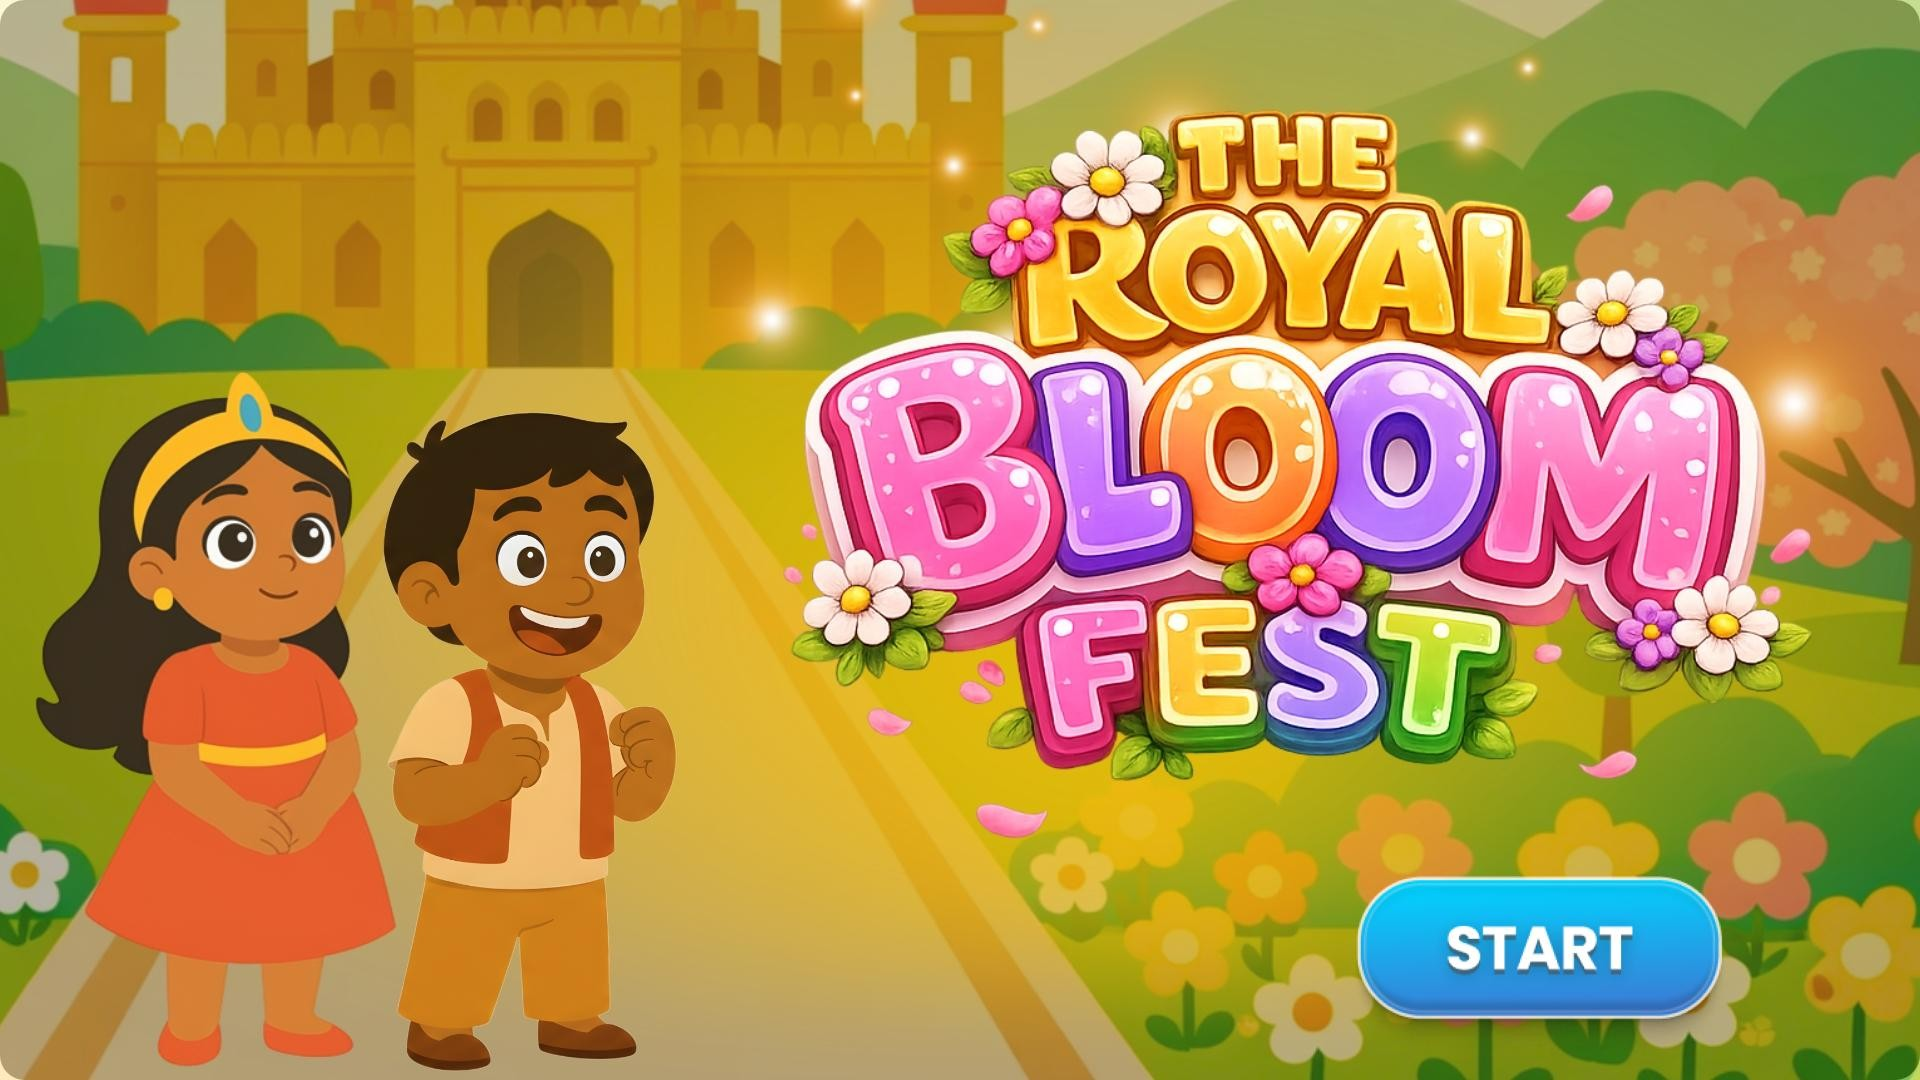
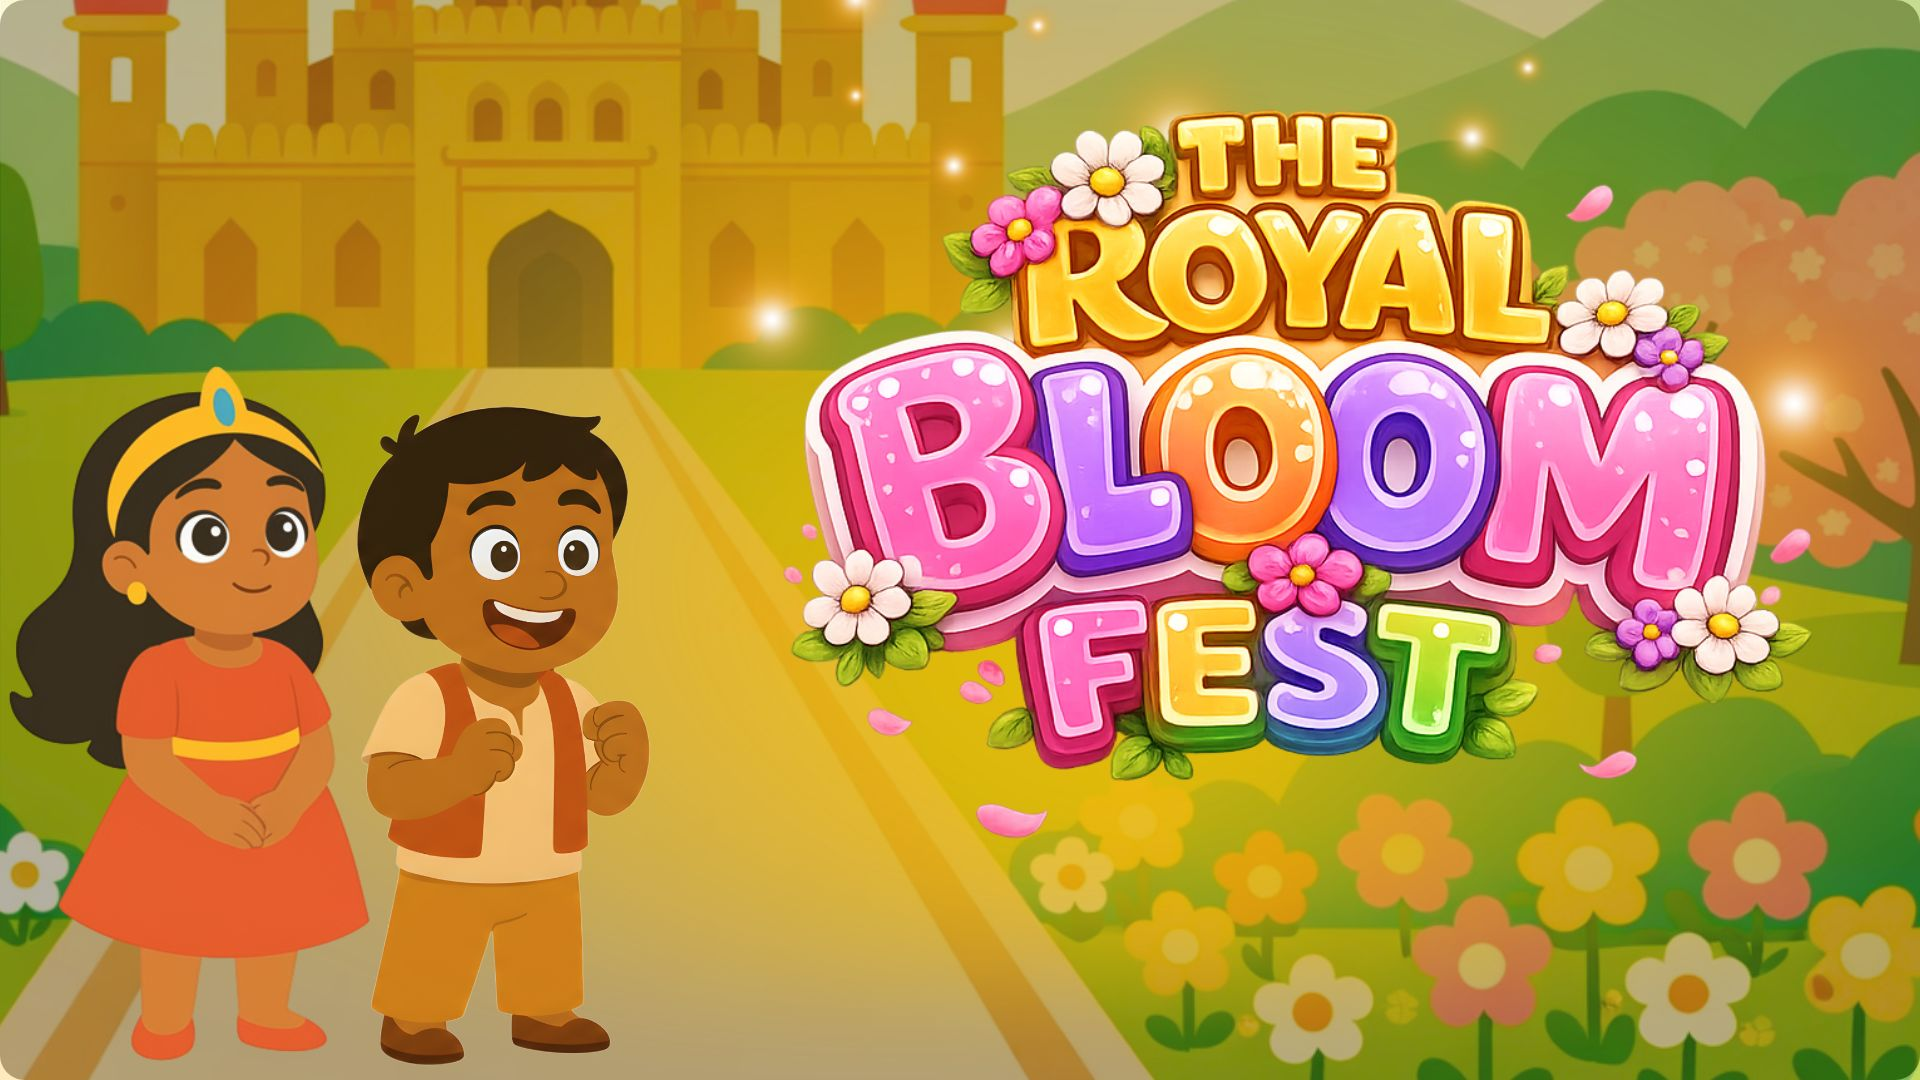
changes in designs

Changed region(s): [[0.0, 0.3361, 0.375, 1.0], [0.6875, 0.7944, 0.9062, 0.9778]]

diff --git a/ebook.html b/ebook.html
@@ -19,6 +19,7 @@
     }
 
     /* ── Preloader ── */
+    /* preloader bg fixed */
     #preloader {
       position: fixed;
       inset: 0;
@@ -186,8 +187,9 @@
     body {
       background: var(--theme-bg);
     }
+    /* preloader bg fixed */
     #preloader {
-      background: transparent !important;
+      background: var(--theme-bg) !important;
     }
 
     /* ── Centered book scene ── */
@@ -563,7 +565,7 @@
 
     /* Dummy pages — completely invisible, just fix turn.js pairing */
     .dummy-page {
-      background: transparent !important;
+      background: var(--theme-bg) !important;
       box-shadow: none !important;
       visibility: hidden;
     }
@@ -1451,22 +1453,59 @@
 
     /* ── BloomFest: preloader cover image ── */
     .loader-stage {
-      width: min(92vw, 1100px) !important;
-      height: min(53vw, 634px) !important;
-      margin-top: 1vh !important;
+      width: min(92vw, 900px) !important;
+      aspect-ratio: 820 / 472 !important;
+      height: auto !important;
+      margin-top: 2vh !important;
     }
-    .loader-book { background: transparent; }
+    .loader-book { background: transparent; pointer-events: none; }
     .loader-book svg { display: none !important; }
     .loader-cover-img {
       width: 100%;
       height: 100%;
       object-fit: fill;
       display: block;
-      border-radius: 6px;
-      box-shadow: 0 16px 50px rgba(0,0,0,.4), 0 4px 16px rgba(0,0,0,.22);
+      border-radius: 0 8px 8px 0;
       pointer-events: none;
     }
     .loader-overlay { display: none !important; }
+
+    /* Book frame: spine left, page-stack right & bottom, cover shadow */
+    .loader-book {
+      border-radius: 4px 8px 8px 4px !important;
+      box-shadow:
+        /* outer drop shadow */
+        0 22px 60px rgba(0,0,0,.45),
+        0 6px 18px rgba(0,0,0,.28),
+        /* spine gutter left */
+        inset 28px 0 20px -10px rgba(0,0,0,.45);
+    }
+    /* Spine strip */
+    .loader-stage::before {
+      content: '';
+      position: absolute;
+      left: 0; top: 0; bottom: 0;
+      width: 28px;
+      background: linear-gradient(to right, #2a0808 0%, #5C1B23 55%, #7B2630 100%);
+      border-radius: 4px 0 0 4px;
+      box-shadow: inset -4px 0 8px rgba(0,0,0,.3);
+      z-index: 5;
+      pointer-events: none;
+    }
+    /* Page stack (right + bottom edge) */
+    .loader-stage::after {
+      content: '';
+      position: absolute;
+      right: -10px; top: 4px; bottom: 4px;
+      width: 12px;
+      background: repeating-linear-gradient(to bottom,
+        #f4edd8 0px, #f4edd8 3px,
+        #e0d6b8 3px, #e0d6b8 6px);
+      border-radius: 0 3px 3px 0;
+      box-shadow: 4px 0 10px rgba(0,0,0,.2);
+      z-index: 0;
+      pointer-events: none;
+    }
 
     /* Progress bar — positioned directly in .loader-stage */
     .loader-stage > .loader-bar-wrap {
@@ -1477,44 +1516,55 @@
       width: min(55%, 240px);
     }
 
-    /* ── Start button — transparent glow ring over the drawn START in cover art ── */
+    /* ── Start button — visible game-style button, bottom-right of thumbnail ── */
     #startBtn {
       display: none;
       position: absolute !important;
-      bottom: 4% !important;
-      right: 15% !important;
-      width: 22% !important;
-      height: 14% !important;
+      bottom: 6% !important;
+      right: 6% !important;
       margin: 0 !important;
-      padding: 0 !important;
-      background: transparent !important;
-      border: 3px solid rgba(255,255,255,.0) !important;
+      padding: 0 14px !important;
+      width: 26% !important;
+      height: 17% !important;
+      font-family: 'Fredoka One','Nunito',sans-serif !important;
+      font-size: clamp(18px, 2.8vw, 26px) !important;
+      font-weight: 700 !important;
+      color: #fff !important;
+      letter-spacing: 2px !important;
+      text-transform: uppercase !important;
+      text-shadow: 0 2px 4px rgba(0,30,80,.45) !important;
+      background: linear-gradient(180deg, #7ee8ff 0%, #1baee0 40%, #0d7fc4 100%) !important;
+      border: 3px solid rgba(255,255,255,.75) !important;
+      border-bottom: 3px solid rgba(255,255,255,.35) !important;
       border-radius: 50px !important;
       cursor: pointer !important;
-      font-size: 0 !important;
-      box-shadow: none !important;
-      z-index: 10 !important;
+      box-shadow: 0 6px 0 #085a8a, 0 8px 28px rgba(0,0,0,.35), 0 0 22px rgba(80,210,255,.4) !important;
+      z-index: 20 !important;
+      pointer-events: all !important;
     }
     #startBtn.btn-visible {
-      display: inline-block !important;
-      border: 3px solid rgba(120,230,255,.95) !important;
-      box-shadow: 0 0 18px rgba(80,215,255,.7), 0 0 40px rgba(80,215,255,.35), inset 0 0 10px rgba(255,255,255,.18) !important;
-      animation: startBtnPop .6s cubic-bezier(.18,1.25,.32,1) both,
+      display: flex !important;
+      align-items: center !important;
+      justify-content: center !important;
+      animation: startBtnPop .6s cubic-bezier(.18,1.3,.32,1) both,
                  startBtnGlow 2s ease-in-out infinite .7s !important;
     }
     #startBtn.btn-visible:hover {
-      border-color: rgba(180,245,255,1) !important;
-      box-shadow: 0 0 32px rgba(80,215,255,.9), 0 0 65px rgba(80,215,255,.45), inset 0 0 16px rgba(255,255,255,.28) !important;
-      transform: scale(1.05) !important;
+      transform: translateY(-3px) scale(1.04) !important;
+      box-shadow: 0 9px 0 #085a8a, 0 12px 32px rgba(0,0,0,.35), 0 0 44px rgba(80,210,255,.7) !important;
+    }
+    #startBtn.btn-visible:active {
+      transform: translateY(3px) !important;
+      box-shadow: 0 3px 0 #085a8a, 0 4px 16px rgba(0,0,0,.3) !important;
     }
     @keyframes startBtnPop {
-      0%   { opacity:0; transform:scale(.4); border-color:rgba(120,230,255,0); }
-      65%  { opacity:1; transform:scale(1.08); }
-      100% { opacity:1; transform:scale(1); }
+      0%   { opacity:0; transform:scale(.25) rotate(-6deg); }
+      60%  { opacity:1; transform:scale(1.1) rotate(2deg); }
+      100% { opacity:1; transform:scale(1) rotate(0deg); }
     }
     @keyframes startBtnGlow {
-      0%,100% { box-shadow:0 0 12px rgba(80,215,255,.5), 0 0 28px rgba(80,215,255,.2), inset 0 0 8px rgba(255,255,255,.12); border-color:rgba(120,230,255,.8); }
-      50%     { box-shadow:0 0 30px rgba(80,215,255,.9), 0 0 60px rgba(80,215,255,.4), inset 0 0 16px rgba(255,255,255,.25); border-color:rgba(200,248,255,1); }
+      0%,100% { box-shadow:0 6px 0 #085a8a,0 8px 28px rgba(0,0,0,.35),0 0 22px rgba(80,210,255,.4); }
+      50%     { box-shadow:0 6px 0 #085a8a,0 8px 28px rgba(0,0,0,.35),0 0 55px rgba(80,210,255,.85),0 0 85px rgba(80,210,255,.25); }
     }
 
   </style>
@@ -1523,9 +1573,10 @@
 <body>
   <!-- Preloader -->
   <div id="preloader">
+    <svg id="preloaderDecor" style="position:absolute;top:0;left:0;width:100%;height:100%;pointer-events:none;z-index:0" viewBox="0 0 1000 600" preserveAspectRatio="none"></svg>
     <div class="loader-stage">
       <div class="loader-book">
-        <img class="loader-cover-img" src="media/1.jpg" alt="The Royal Bloom Fest">
+        <img class="loader-cover-img" src="assets/thumbnail.jpg" alt="The Royal Bloom Fest">
       </div>
       <div class="loader-bar-wrap">
         <div class="loader-bar" id="loaderBar"></div>
@@ -1558,7 +1609,7 @@
       <div class="page-stack-purple"></div>
       <div class="spine-tab"></div>
     </div>
-    <div class="pg-cnt" id="pgCnt">The Royale Bloom Fest</div>
+    <div class="pg-cnt" id="pgCnt"></div>
   </div>
 
   <script>
@@ -5195,6 +5246,8 @@
       r.setProperty('--theme-accent', t.accent);
       var decorEl = document.getElementById('themeDecor');
       if (decorEl) decorEl.innerHTML = t.decor();
+      var plDecor = document.getElementById('preloaderDecor');
+      if (plDecor) plDecor.innerHTML = t.decor();
     }
     applyTheme(ACTIVE_THEME);
 
@@ -5668,7 +5721,7 @@
       bgMusic: "audios/ThemeMusic.mp3",
       title: "The Royal Bloom Fest",
       pages: [
-        { image: "media/1.jpg",                                              audio: "audios/TheRoyalBloomFest.mp3" },
+        { image: "assets/thumbnail.jpg",                                    audio: "audios/TheRoyalBloomFest.mp3" },
         { image: "media/2.jpg",                                              audio: "audios/MeetTaraandKabirTheyareExcitedForTheBloomFest.mp3" },
         { image: "media/3.jpg",                                              audio: "audios/TheRoayalGuestsAreComingButThePAthAreBlocked.mp3" },
         { image: "media/4OhNoThwBoxesAreEverywhere.jpg",                     audio: "audios/OHNOTheBoxesAreEverywhere.mp3" },
